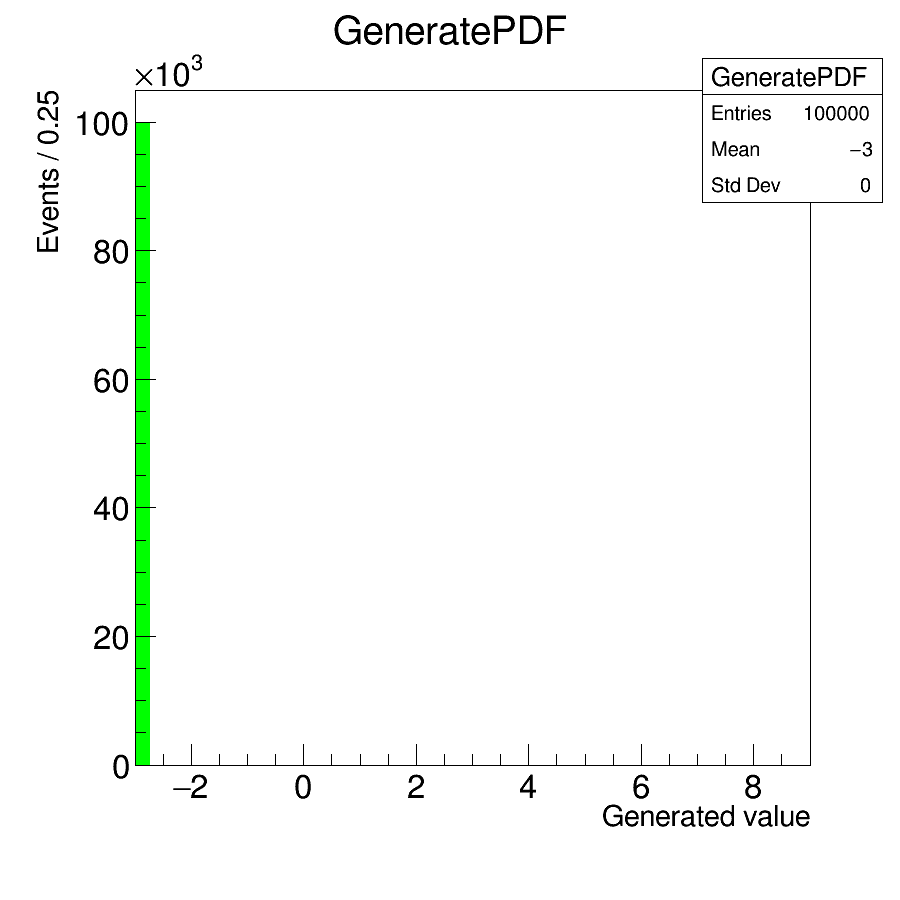
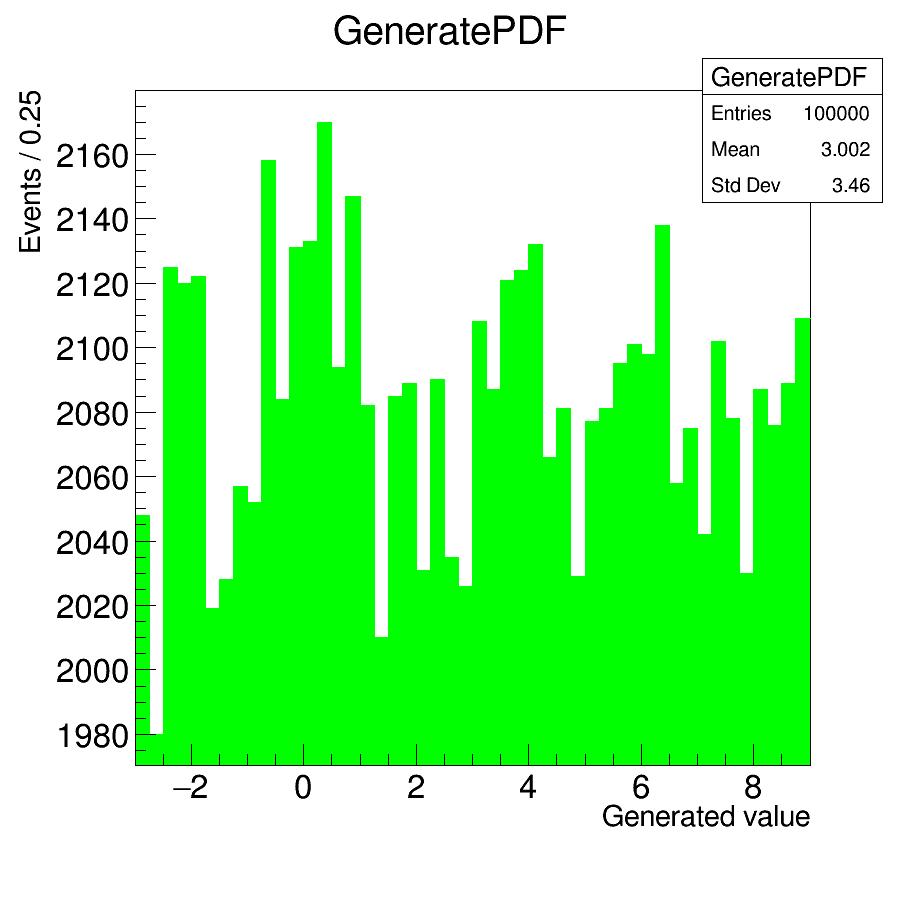
Kolokvij1_zad1

diff --git a/Kolokvij_1/Zadatak_1/Generator.cpp b/Kolokvij_1/Zadatak_1/Generator.cpp
@@ -10,7 +10,7 @@ void Generator::GeneratePDF(){
 	canvas = new TCanvas ();
 	hist = new TH1F ("GeneratePDF", "GeneratePDF", 48, -3., 9.);
 	while (i < 1E5){
-		rng = -3 + 12 * rand () / RAND_MAX;
+		rng = -3 + 12 * (float)rand () / RAND_MAX;
 		f = (-rng * rng + 6 * rng + 27) / 36.;
 		rng2 = -3 + 12 * rand () /RAND_MAX;
 		if (rng2 < f){
